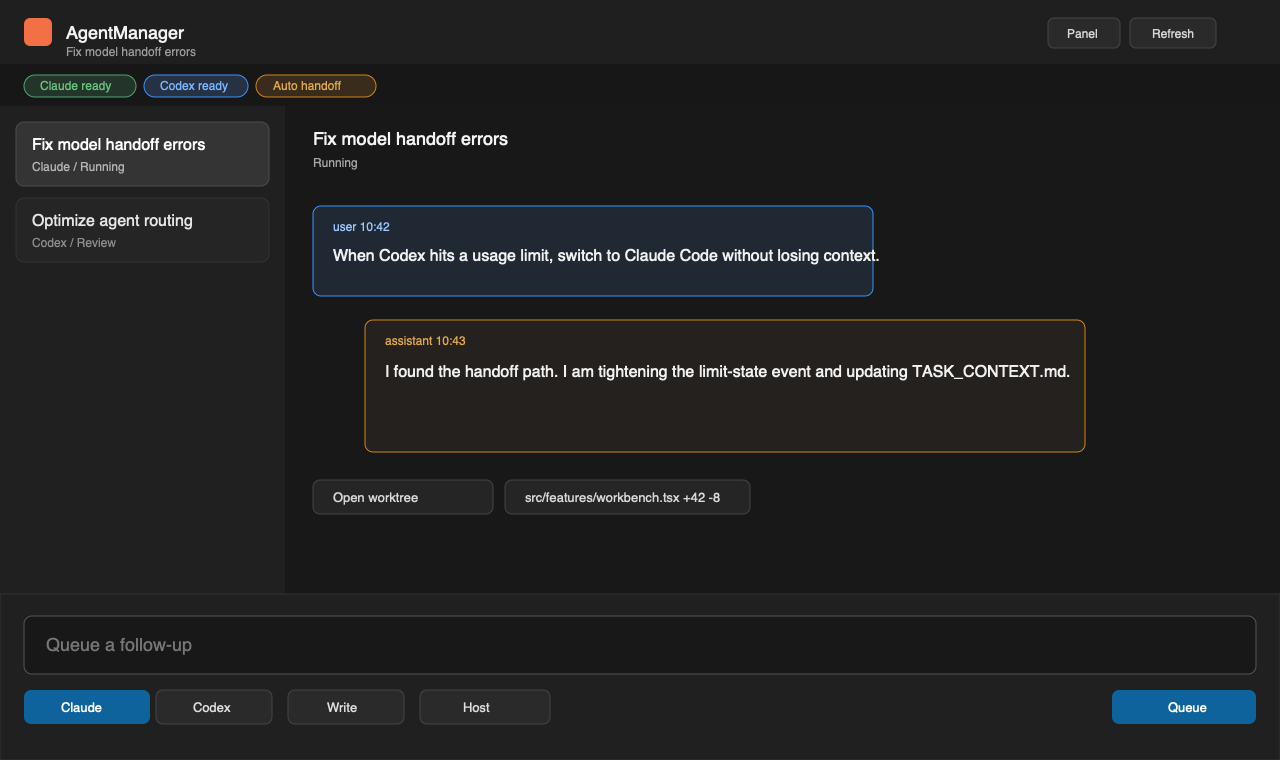
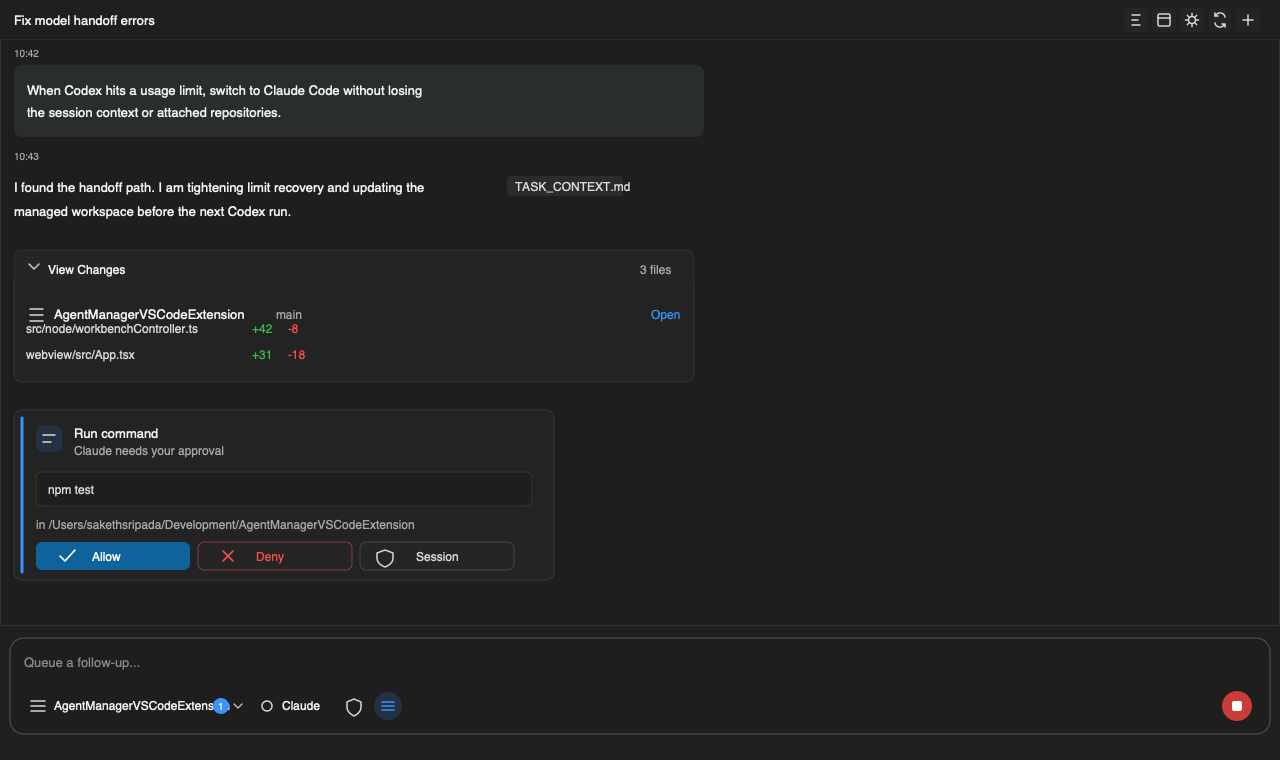
docs(readme): refresh overview and screenshot

diff --git a/README.md b/README.md
@@ -1,21 +1,28 @@
 # AgentManager for VS Code
 
-AgentManager runs Claude Code and Codex sessions from inside VS Code, preserving
-context across agent switches, usage limits, and runtime changes.
+AgentManager is a local VS Code workbench for running Claude Code and Codex on
+the same task. It keeps session context, repository attachments, queued turns,
+approvals, and usage-limit handoffs in one place so you can move between agents
+without rebuilding state.
 
-![AgentManager](media/screenshot-workbench.png)
+![AgentManager workbench](media/screenshot-workbench.svg)
 
 ## Features
 
-- Chat-first AgentManager view in the Activity Bar, with an optional wide editor panel.
-- Pick Claude Code or Codex per session, including model and reasoning controls.
-- Automatic handoff when an agent hits a usage limit, using AgentManager context
-  files so the next agent can continue without starting cold.
-- Connect the current workspace repository or clone GitHub repositories through
-  VS Code's built-in GitHub authentication.
-- Queue follow-up turns while an agent is still running.
-- Run Codex on Host or in Docker Sandbox through Docker's `sbx` CLI.
-- Inspect session status, attached repositories, queued turns, and diffs.
+- Chat-first AgentManager workbench in the Activity Bar, with the same view
+  available as a wide VS Code panel.
+- Per-session agent routing for Claude Code and Codex, including permission,
+  model, reasoning, and runtime controls.
+- Automatic handoff when an agent hits a usage limit, with configurable fallback
+  order, recovery behavior, and retry timing.
+- Local repository attachment plus GitHub repository connection through VS Code's
+  built-in GitHub authentication.
+- Managed workspaces for agent edits, with inline changed-file summaries and
+  quick access to generated worktrees.
+- Queued follow-up turns while an agent is running, including queue editing and
+  reordering.
+- Approval prompts for commands, tools, and file changes that need user consent.
+- Codex runs on the host or inside Docker Sandbox through Docker's `sbx` CLI.
 
 ## Requirements
 
@@ -27,12 +34,33 @@ context across agent switches, usage limits, and runtime changes.
 ## Getting Started
 
 1. Open the AgentManager icon in the Activity Bar.
-2. Attach the current workspace repository, or connect a GitHub repository.
-3. Pick an agent and permission mode.
-4. Send a message.
+2. Attach the current workspace repository, add a local folder, or connect a
+   GitHub repository.
+3. Pick Claude or Codex, then choose the permission mode and optional run
+   settings.
+4. Send a message. If a run is already active, the message is queued as the next
+   turn.
 
 AgentManager creates managed workspaces for agent edits so your original working
 tree stays reviewable.
+
+Use **AgentManager: Open AgentManager Panel** from the Command Palette when you
+want the workbench in VS Code's bottom panel instead of the side bar.
+
+## Configuration
+
+The extension contributes `agentmanager.*` settings for defaults and runtime
+policy:
+
+- `defaultAgent`, `defaultPermission`, `defaultExecutionBackend`,
+  `defaultModel`, and `defaultReasoning` control new sessions.
+- `autoSwitchOnLimit`, `switchBackOnRecovery`, `fallbackPriority`,
+  `resumeWithEarliestAgent`, and `unknownLimitRetrySeconds` control handoff
+  behavior.
+- `sandbox.maxConcurrent`, `sandbox.cpus`, `sandbox.memory`, and
+  `sandbox.networkPreset` control Docker Sandbox runs.
+- `daemonPath` can point at a custom `am-daemon` binary. Empty uses the binary
+  bundled with the extension.
 
 ## Privacy and Security
 
@@ -50,19 +78,22 @@ This is a standalone repository for the VS Code extension. Its TypeScript and
 webview code live here and are edited here directly.
 
 The bundled `am-daemon` binaries (under `bin/<target>/`) are **build artifacts**
-produced by the Rust crates in the separate
-[AgentManager](https://github.com/SakethSripada/AgentManager) monorepo. They are
+produced by the Rust crates in the separate AgentManager monorepo. They are
 committed here so the extension is self-contained and packageable without a Rust
 toolchain.
 
-## Daemon workflow
-
-Edit and rebuild the extension entirely within this repo:
+## Development
 
 ```bash
 npm install
-npm run build      # builds extension + webview into dist/
+npm run build
+npm test
 ```
+
+For iterative work, run `npm run watch:extension` and `npm run watch:webview` in
+separate terminals.
+
+## Daemon workflow
 
 When daemon-side behavior changes in the monorepo and you want those changes in
 the extension, sync the binary **from the monorepo** (you choose when):
